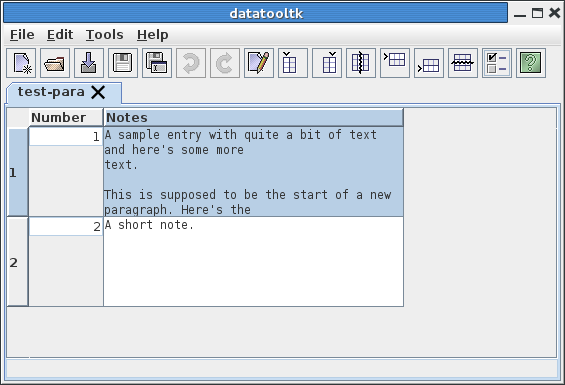
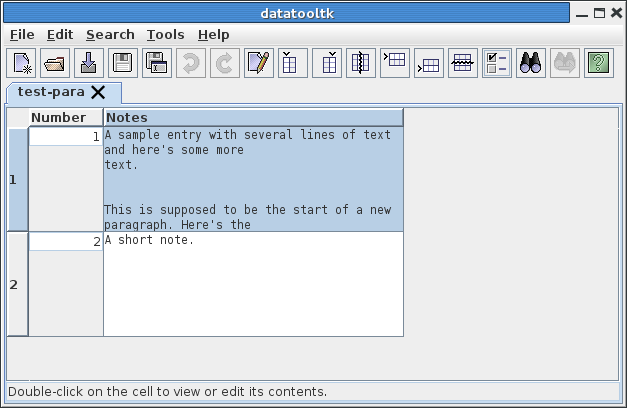
Updated doc images and added verb_detected_in_cell

Changed region(s): [[0.0, 0.0, 1.0, 0.9974]]

diff --git a/src/java/gui/DatatoolGUI.java b/src/java/gui/DatatoolGUI.java
@@ -146,7 +146,7 @@ public class DatatoolGUI extends JFrame
         "file", "save_as", this, toolBar));
 
       fileM.add(DatatoolGuiResources.createJMenuItem(
-        "file", "close", this,
+        "file", "close_db", this,
         KeyStroke.getKeyStroke(KeyEvent.VK_W, InputEvent.CTRL_MASK),
          toolBar));
 
@@ -236,14 +236,18 @@ public class DatatoolGUI extends JFrame
       mbar.add(searchM);
 
       findCellItem = DatatoolGuiResources.createJMenuItem(
-         "search", "find_cell", this, toolBar);
+         "search", "find_cell", this,
+         KeyStroke.getKeyStroke(KeyEvent.VK_F, InputEvent.CTRL_MASK),
+         toolBar);
 
       searchM.add(findCellItem);
 
       findCellDialog = new FindCellDialog(this);
 
       findNextItem = DatatoolGuiResources.createJMenuItem(
-         "search", "find_again", this, toolBar);
+         "search", "find_again", this,
+         KeyStroke.getKeyStroke(KeyEvent.VK_G, InputEvent.CTRL_MASK),
+         toolBar);
       searchM.add(findNextItem);
 
       JMenu toolsM = DatatoolGuiResources.createJMenu("tools");
@@ -547,7 +551,7 @@ public class DatatoolGUI extends JFrame
       {
          importProbSoln();
       }
-      else if (action.equals("close"))
+      else if (action.equals("close_db"))
       {
          close();
       }
@@ -1058,7 +1062,7 @@ public class DatatoolGUI extends JFrame
    {
       String label = DatatoolTk.getLabel("default.untitled");
 
-      DatatoolHeader header = new DatatoolHeader(label, label);
+      DatatoolHeader header = new DatatoolHeader(label, "");
 
       return headerDialog.requestEdit(header, panel.db);
    }

diff --git a/src/java/gui/PropertiesDialog.java b/src/java/gui/PropertiesDialog.java
@@ -374,7 +374,9 @@ public class PropertiesDialog extends JDialog
 
       helpsetLangBox = new JComboBox<String>(gui.getHelpSets());
 
-      box.add(createLabel("preferences.language.helpset", helpsetLangBox));
+      JLabel helpsetLangLabel 
+         = createLabel("preferences.language.helpset", helpsetLangBox);
+      box.add(helpsetLangLabel);
       box.add(helpsetLangBox);
 
       box = new JPanel(new FlowLayout());
@@ -382,8 +384,17 @@ public class PropertiesDialog extends JDialog
 
       dictLangBox = new JComboBox<String>(gui.getDictionaries());
 
-      box.add(createLabel("preferences.language.dictionary", dictLangBox));
+      JLabel dictLangLabel 
+         = createLabel("preferences.language.dictionary", dictLangBox);
+      box.add(dictLangLabel);
       box.add(dictLangBox);
+
+      dim = helpsetLangLabel.getPreferredSize();
+      dim.width = Math.max(dim.width,
+         (int)dictLangBox.getPreferredSize().getWidth());
+
+      helpsetLangLabel.setPreferredSize(dim);
+      dictLangLabel.setPreferredSize(dim);
 
       getContentPane().add(
         DatatoolGuiResources.createOkayCancelHelpPanel(this, gui, "preferences"),

diff --git a/src/java/gui/UpdateCellEdit.java b/src/java/gui/UpdateCellEdit.java
@@ -21,7 +21,9 @@ public class UpdateCellEdit extends AbstractUndoableEdit
 
       if (DatatoolDb.checkForVerbatim(newText))
       {
-         DatatoolTk.warning(DatatoolTk.getLabel("warning.verb_detected"));
+         DatatoolTk.warning(DatatoolTk.getLabelWithValues(
+           "warning.verb_detected_in_cell",
+           ""+(row+1), ""+(col+1)));
       }
    }
 

diff --git a/src/java/DatatoolTk.java b/src/java/DatatoolTk.java
@@ -1061,7 +1061,7 @@ public class DatatoolTk
 
    public static final String appVersion = "0.2b";
    public static final String appName = "datatooltk";
-   public static final String appDate = "2013-06-30";
+   public static final String appDate = "2013-07-01";
 
    private static Properties dictionary;
    private static boolean debugMode = false;
